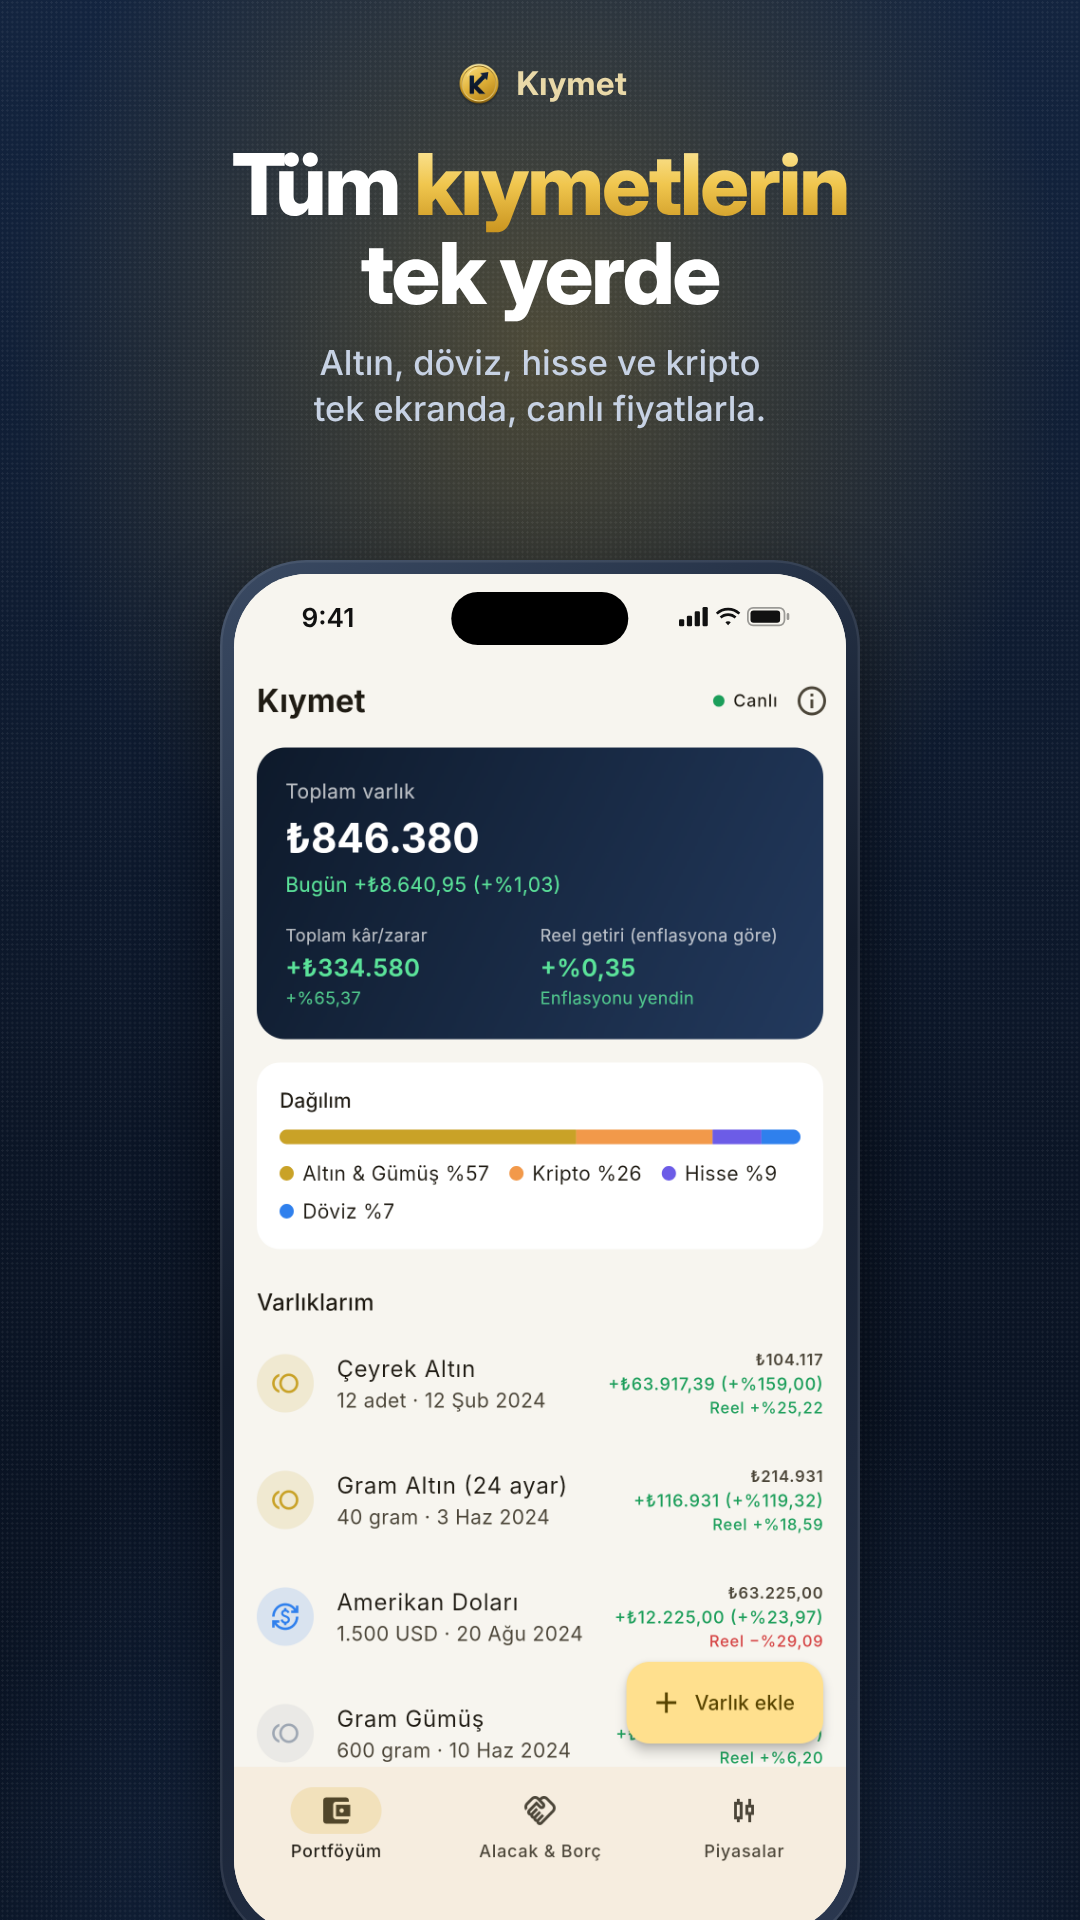
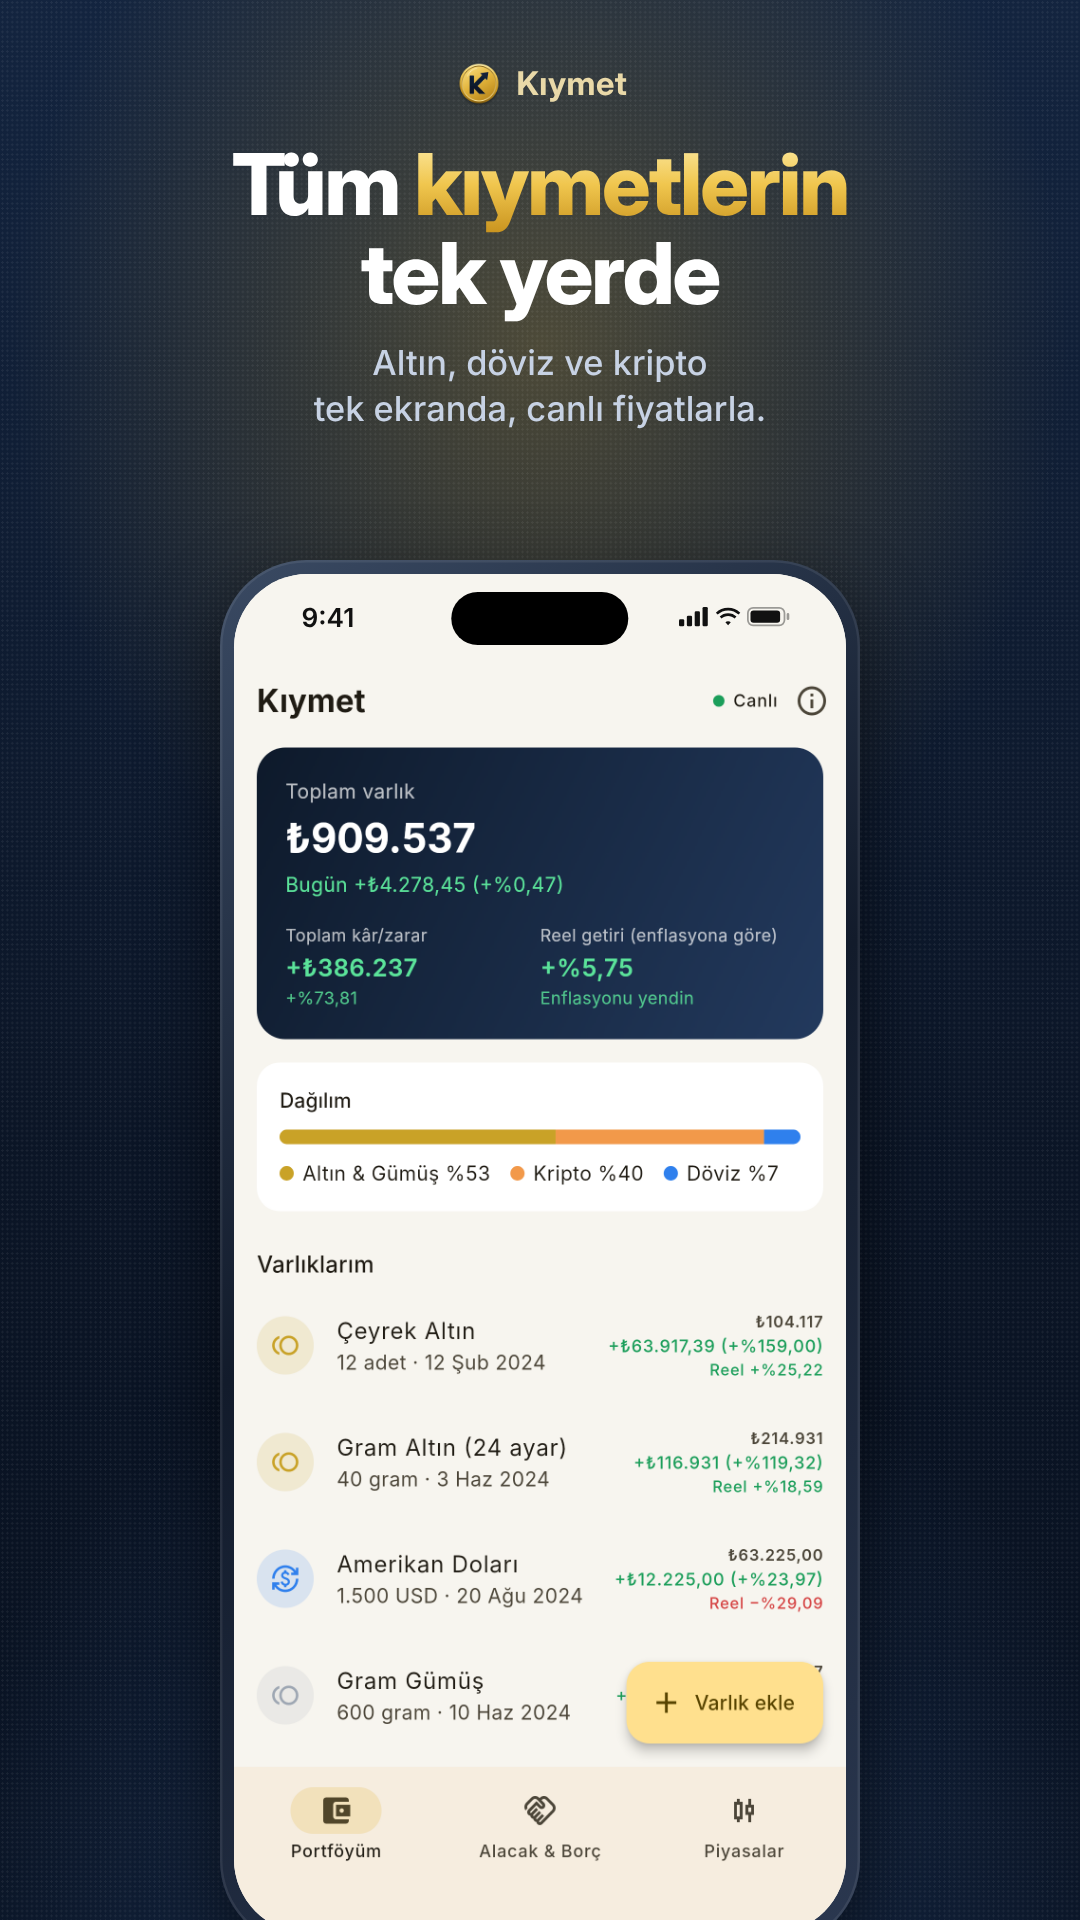
İlk sürümde BIST hisselerini kapat (lisans), mağaza adı/metin/görselleri güncelle
- config.dart: stocksEnabled bayrağı (varsayılan kapalı); katalog, piyasa
  sekmeleri, varlık ekleme ve fiyat çekimi buna uyar.
- Mağaza adı: Kıymet: Altın, Döviz, Kripto; metinler generate.py ile üretilir.
- Ekran görüntüleri ve tanıtım görselleri hissesiz yeniden üretildi.
- Gizlilik/destek sayfalarından Yahoo ve hisse ifadeleri kaldırıldı.
- Yayın rehberi: veri lisansı durumu ve BtcTurk izin e-postası taslağı.

Claude-Session: https://claude.ai/code/session_017xNMR98p8SaiarxAPqPvUV

diff --git a/kiymet/store/poster.html b/kiymet/store/poster.html
@@ -59,12 +59,12 @@
 <div id="dev"></div>
 <script>
 const POSTERS = [
-  { shot: '01_portfoy', title: 'Tüm <em>kıymetlerin</em><br>tek yerde', sub: 'Altın, döviz, hisse ve kripto<br>tek ekranda, canlı fiyatlarla.' },
+  { shot: '01_portfoy', title: 'Tüm <em>kıymetlerin</em><br>tek yerde', sub: 'Altın, döviz ve kripto<br>tek ekranda, canlı fiyatlarla.' },
   { shot: '06_alacak_detay', title: 'Enflasyon ne kadar<br><em>eritti?</em>', sub: 'Verdiğin borcun bugünkü<br>gerçek değerini gör.', dim: true },
   { shot: '02_piyasalar_altin', title: 'Çeyrekten bileziğe<br><em>her altın</em>', sub: 'Gram, çeyrek, yarım, tam, Cumhuriyet<br>ve ayar altınlar anlık.' },
   { shot: '05_alacak_borc', title: 'Alacağını<br><em>unutma</em>', sub: 'Kime ne verdin, bugün kaç TL ediyor;<br>hepsi kayıtlı.' },
   { shot: '04_varlik_ekle', title: 'Alış fiyatı<br><em>otomatik</em>', sub: 'Tarihi seç, o günün fiyatı gelsin;<br>toplam tutar hemen hesaplansın.' },
-  { shot: '03_piyasalar_kripto', title: 'Kripto ve borsa<br><em>da burada</em>', sub: "Bitcoin'den THYAO'ya<br>tüm varlıkların bir arada." },
+  { shot: '03_piyasalar_kripto', title: 'Kripto paralar<br><em>da burada</em>', sub: "Bitcoin, Ethereum, Solana<br>ve onlarca kripto para anlık." },
 ];
 const SIZES = {
   ios:     { w: 1320, h: 2868, devW: 1010, devTop: 700 },
@@ -89,7 +89,7 @@ if (q.get('size') === 'feature') {
   document.getElementById('head').innerHTML =
     `<img class="logo-h" src="../brand/export/logo-horizontal.png">
      <h1>Paranın <em>gerçek</em> değerini gör</h1>
-     <p class="sub">Altın, döviz, hisse, kripto ve alacaklar tek yerde.</p>`;
+     <p class="sub">Altın, döviz, kripto ve alacaklar tek yerde.</p>`;
   const dev = document.getElementById('dev');
   dev.innerHTML = `<div class="device" style="left:auto;right:${70*u}px;transform:rotate(-8deg);--devW:${300}px;--devTop:${40}px;top:${40}px">
      <div class="screen"><img class="shot" src="screens-raw/01_portfoy.png">${statusBar}</div></div>`;

diff --git a/kiymet/site/index.html b/kiymet/site/index.html
@@ -9,7 +9,7 @@
 <header><img src="mark.png" alt=""><div><b>Kıymet</b><span>Tüm kıymetlerin tek yerde</span></div></header>
 <nav><a href="index.html">Destek</a><a href="privacy.html">Gizlilik</a></nav>
 <h1>Destek</h1>
-<p>Altın, döviz, hisse, kripto ve alacaklarınızı tek ekranda takip edin; enflasyona göre gerçek getirinizi görün.</p>
+<p>Altın, döviz, kripto ve alacaklarınızı tek ekranda takip edin; enflasyona göre gerçek getirinizi görün.</p>
 <div class="card"><b>Bize ulaşın:</b> <a href="mailto:{{DESTEK_EPOSTA}}">{{DESTEK_EPOSTA}}</a><br>
 <span class="muted">Genellikle 2 iş günü içinde yanıt veriyoruz.</span></div>
 
@@ -21,7 +21,7 @@ Bugünkü değer, alış maliyetinizin TÜFE'ye göre bugüne taşınmış haliy
 <p><b>Verilerim nerede saklanıyor?</b><br>
 Yalnızca telefonunuzda. Üyelik yoktur, hiçbir sunucuya gönderilmez. Ayrıntılar için <a href="privacy.html">Gizlilik Politikası</a>.</p>
 <p><b>Fiyatlar gerçek zamanlı mı?</b><br>
-Kripto ve altın birkaç saniyede bir güncellenir. Döviz TCMB gösterge kurudur. Hisse fiyatları en az 15 dakika gecikmelidir.</p>
+Kripto birkaç saniyede, altın ve gümüş yarım dakikada bir güncellenir. Döviz TCMB gösterge kurudur.</p>
 <footer>© 2026 {{GELISTIRICI_ADI}} · Kıymet bir yatırım danışmanlığı hizmeti değildir.</footer>
 </main></body>
 </html>

diff --git a/kiymet/app/lib/screens/markets_screen.dart b/kiymet/app/lib/screens/markets_screen.dart
@@ -1,6 +1,7 @@
 import 'package:flutter/material.dart';
 import 'package:provider/provider.dart';
 
+import '../config.dart';
 import '../models/models.dart';
 import '../services/market_data.dart';
 import '../state/app_state.dart';
@@ -15,7 +16,7 @@ class MarketsScreen extends StatelessWidget {
   Widget build(BuildContext context) {
     final status = context.select<AppState, StreamStatus>((a) => a.status);
     return DefaultTabController(
-      length: AssetType.values.length,
+      length: visibleAssetTypes.length,
       child: Scaffold(
         backgroundColor: Colors.transparent,
         appBar: AppBar(
@@ -24,11 +25,11 @@ class MarketsScreen extends StatelessWidget {
           bottom: TabBar(
             isScrollable: true,
             tabAlignment: TabAlignment.start,
-            tabs: [for (final t in AssetType.values) Tab(text: t.label)],
+            tabs: [for (final t in visibleAssetTypes) Tab(text: t.label)],
           ),
         ),
         body: TabBarView(
-          children: [for (final t in AssetType.values) _MarketList(type: t)],
+          children: [for (final t in visibleAssetTypes) _MarketList(type: t)],
         ),
       ),
     );

diff --git a/kiymet/app/lib/services/direct_market_data.dart b/kiymet/app/lib/services/direct_market_data.dart
@@ -3,6 +3,7 @@ import 'dart:convert';
 
 import 'package:http/http.dart' as http;
 
+import '../config.dart';
 import '../logic/catalog.dart';
 import '../logic/inflation.dart';
 import '../logic/metals.dart';
@@ -67,7 +68,7 @@ class DirectMarketData implements MarketData {
     _every(const Duration(seconds: 5), _pollCrypto);
     _every(const Duration(seconds: 30), _pollMetals);
     _every(const Duration(minutes: 30), _pollFx);
-    _every(const Duration(seconds: 60), _pollStocks);
+    if (stocksEnabled) _every(const Duration(seconds: 60), _pollStocks);
     _every(const Duration(seconds: 10), _updateStatus, immediate: false);
   }
 
@@ -110,7 +111,7 @@ class DirectMarketData implements MarketData {
         added = _extraStocks.add(parts[1]) || added;
       }
     }
-    if (added && _active) _pollStocks();
+    if (added && _active && stocksEnabled) _pollStocks();
   }
 
   @override

diff --git a/kiymet/app/lib/screens/portfolio_screen.dart b/kiymet/app/lib/screens/portfolio_screen.dart
@@ -2,6 +2,7 @@ import 'package:flutter/material.dart';
 import 'package:intl/intl.dart';
 import 'package:provider/provider.dart';
 
+import '../config.dart';
 import '../logic/portfolio.dart';
 import '../models/models.dart';
 import '../state/app_state.dart';
@@ -383,7 +384,9 @@ class _EmptyState extends StatelessWidget {
           ),
           const SizedBox(height: 8),
           const Text(
-            'Altın, döviz, hisse ve kripto varlıklarını ekle; toplam değerini ve gerçek getirini anlık takip et.',
+            stocksEnabled
+                ? 'Altın, döviz, hisse ve kripto varlıklarını ekle; toplam değerini ve gerçek getirini anlık takip et.'
+                : 'Altın, döviz ve kripto varlıklarını ekle; toplam değerini ve gerçek getirini anlık takip et.',
             textAlign: TextAlign.center,
           ),
         ],

diff --git a/kiymet/site/privacy.html b/kiymet/site/privacy.html
@@ -24,7 +24,7 @@ analiz (analytics) veya izleme (tracking) araçları bulunmaz.</p>
 
 <h2>3. Ağ bağlantıları</h2>
 <p>Güncel ve geçmiş piyasa fiyatlarını göstermek için uygulama, herkese açık piyasa verisi kaynaklarına (ör. TCMB, BtcTurk, Binance,
-gold-api.com, Yahoo Finance, OECD, BIS) şifreli (HTTPS) istek gönderir. Bu isteklerde kişisel bilgileriniz veya portföyünüz
+gold-api.com, OECD, BIS) şifreli (HTTPS) istek gönderir. Bu isteklerde kişisel bilgileriniz veya portföyünüz
 <b>gönderilmez</b>; yalnızca fiyatı istenen piyasa sembolü iletilir. Bu kaynaklar, her internet isteğinde olduğu gibi
 cihazınızın IP adresini teknik olarak görebilir; bu durum ilgili kaynakların kendi gizlilik politikalarına tabidir.</p>
 

diff --git a/kiymet/app/lib/screens/add_holding_screen.dart b/kiymet/app/lib/screens/add_holding_screen.dart
@@ -3,6 +3,7 @@ import 'package:flutter/services.dart';
 import 'package:intl/intl.dart';
 import 'package:provider/provider.dart';
 
+import '../config.dart';
 import '../logic/catalog.dart';
 import '../logic/portfolio.dart';
 import '../models/models.dart';
@@ -64,7 +65,7 @@ class _AddHoldingScreenState extends State<AddHoldingScreen> {
             padding: const EdgeInsets.symmetric(horizontal: 16),
             child: SegmentedButton<AssetType>(
               segments: [
-                for (final t in AssetType.values)
+                for (final t in visibleAssetTypes)
                   ButtonSegment(value: t, label: Text(t.label)),
               ],
               selected: {_type},

diff --git a/kiymet/app/test/logic_test.dart b/kiymet/app/test/logic_test.dart
@@ -1,4 +1,5 @@
 import 'package:flutter_test/flutter_test.dart';
+import 'package:kiymet/logic/catalog.dart';
 import 'package:kiymet/logic/inflation.dart';
 import 'package:kiymet/logic/metals.dart';
 import 'package:kiymet/logic/portfolio.dart';
@@ -119,5 +120,11 @@ void main() {
     expect(back.instrumentId, h.instrumentId);
     expect(back.quantity, 3);
     expect(back.purchaseDate, h.purchaseDate);
+  });
+
+  test('hisseler varsayılan olarak katalogda yok', () {
+    final catalog = buildCatalog(extraStocks: ['THYAO']);
+    expect(catalog.where((i) => i.type == AssetType.stock), isEmpty);
+    expect(catalog.any((i) => i.id == 'METAL:CEYREK'), isTrue);
   });
 }

diff --git a/kiymet/app/lib/state/app_state.dart b/kiymet/app/lib/state/app_state.dart
@@ -2,6 +2,7 @@ import 'dart:async';
 
 import 'package:flutter/foundation.dart';
 
+import '../config.dart';
 import '../logic/debts.dart';
 import '../logic/inflation.dart';
 import '../logic/portfolio.dart';
@@ -111,7 +112,9 @@ class AppState extends ChangeNotifier {
         _data.inflation(),
         _data.snapshot(),
       ]);
-      _instruments = results[0] as List<Instrument>;
+      _instruments = (results[0] as List<Instrument>)
+          .where((i) => stocksEnabled || i.type != AssetType.stock)
+          .toList();
       _instrumentById
         ..clear()
         ..addEntries(_instruments.map((i) => MapEntry(i.id, i)));

diff --git a/kiymet/app/test_store/store_screenshots_test.dart b/kiymet/app/test_store/store_screenshots_test.dart
@@ -160,7 +160,7 @@ void main() {
         h('METAL:GRAM_ALTIN', 40, 2450, DateTime(2024, 6, 3)).toJson(),
         h('FX:USD', 1500, 34.0, DateTime(2024, 8, 20)).toJson(),
         h('METAL:GRAM_GUMUS', 600, 33.5, DateTime(2024, 6, 10)).toJson(),
-        h('STOCK:THYAO', 250, 290, DateTime(2025, 3, 10)).toJson(),
+        h('CRYPTO:ETH', 0.8, 105000, DateTime(2025, 3, 10)).toJson(),
         h('CRYPTO:BTC', 0.045, 3500000, DateTime(2025, 1, 15)).toJson(),
         h('METAL:AYAR22', 25, 2900, DateTime(2025, 2, 1)).toJson(),
       ]),

diff --git a/kiymet/app/lib/config.dart b/kiymet/app/lib/config.dart
@@ -1,0 +1,13 @@
+import 'models/models.dart';
+
+/// BIST hisseleri. Ticari yayına uygun, lisanslı bir veri kaynağı bağlanana kadar kapalıdır.
+/// Açmak için: flutter build ... --dart-define=KIYMET_STOCKS=true
+const stocksEnabled = bool.fromEnvironment('KIYMET_STOCKS');
+
+/// Arayüzde gösterilen varlık türleri.
+const visibleAssetTypes = [
+  AssetType.metal,
+  AssetType.currency,
+  AssetType.crypto,
+  if (stocksEnabled) AssetType.stock,
+];

diff --git a/kiymet/app/lib/logic/catalog.dart b/kiymet/app/lib/logic/catalog.dart
@@ -1,3 +1,4 @@
+import '../config.dart';
 import '../models/models.dart';
 import 'metals.dart';
 
@@ -83,7 +84,8 @@ List<Instrument> buildCatalog({
         unit: c,
         featured: cryptoNames.containsKey(c),
       ),
-    for (final s in stockCodes)
+    if (stocksEnabled)
+      for (final s in stockCodes)
       Instrument(
         id: 'STOCK:$s',
         type: AssetType.stock,
